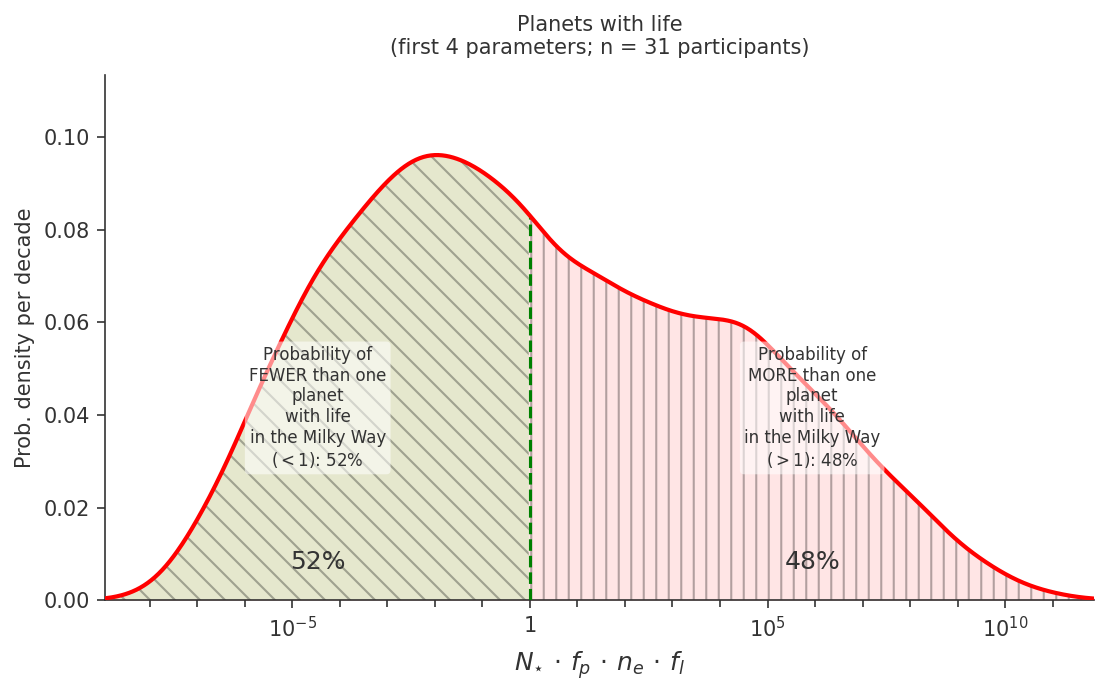
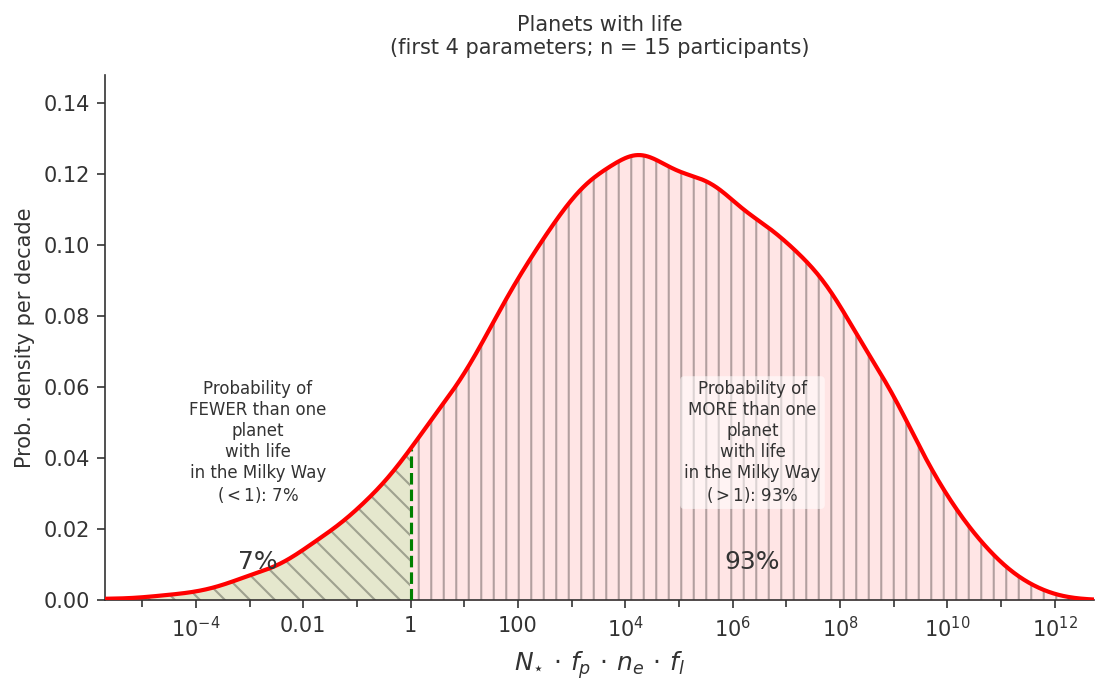
Update figures
Now new figures are generated when data is updated.

diff --git a/analysis/drake_survey_analysis.py b/analysis/drake_survey_analysis.py
@@ -1,12 +1,10 @@
 """
-Drake survey: analysis and figures from the 3 CSVs exported by the backend
+Drake survey: analysis and figures from the CSV exported by the backend
 ==========================================================================
 
-Inputs (downloaded with the admin endpoints):
-    sessions.csv   <- /api/export/sessions.csv
-    answers.csv    <- /api/export/answers.csv
-    context.csv    <- /api/export/context.csv
-    questions.json <- the same file the website uses
+Inputs:
+    data/part-*.csv <- flattened submission exports
+    questions.json  <- the same file the website uses
 
 Method ("A": pooled marginals, then multiply)
 ---------------------------------------------
@@ -105,18 +103,45 @@ def as_bool(series: pd.Series) -> pd.Series:
     return series.astype(str).str.strip().str.lower().isin(["true", "t", "1"])
 
 
-def load_data(data_dir: Path):
-    sessions = pd.read_csv(data_dir / "sessions.csv")
-    answers = pd.read_csv(data_dir / "answers.csv")
-    context = pd.read_csv(data_dir / "context.csv")
+def load_data(data_dir: Path, questions: list[dict]):
+    parts = sorted(data_dir.glob("part-*.csv"))
+    if not parts:
+        raise FileNotFoundError(f"No part-*.csv files found in {data_dir}")
+    submissions = pd.concat((pd.read_csv(part) for part in parts), ignore_index=True)
+    if "id" not in submissions:
+        raise ValueError("Submission CSVs must contain an 'id' column")
 
-    sessions["completed"] = as_bool(sessions["completed"])
-    done = set(sessions.loc[sessions["completed"], "id"])
+    qids = [q["id"] for q in questions]
+    answer_rows = []
+    for qid in qids:
+        required = [f"{qid}_{suffix}" for suffix in ("t_lo", "t_mode", "t_hi", "skipped")]
+        missing = [column for column in required if column not in submissions]
+        if missing:
+            raise ValueError(f"Missing columns for question {qid}: {', '.join(missing)}")
+        rows = submissions[["id", *required]].rename(columns={
+            f"{qid}_t_lo": "t_lo",
+            f"{qid}_t_mode": "t_mode",
+            f"{qid}_t_hi": "t_hi",
+            f"{qid}_skipped": "skipped",
+        })
+        rows["session_id"] = rows.pop("id")
+        rows["question_id"] = qid
+        rows["skipped"] = as_bool(rows["skipped"])
+        for column in ("t_lo", "t_mode", "t_hi"):
+            rows[column] = pd.to_numeric(rows[column], errors="coerce")
+        answer_rows.append(rows[["session_id", "question_id", "t_lo", "t_mode", "t_hi", "skipped"]])
 
-    answers = answers[answers["session_id"].isin(done)].copy()
-    answers["skipped"] = as_bool(answers["skipped"])
-    context = context[context["session_id"].isin(done)].copy()
-    return sessions[sessions["completed"]], answers, context
+    sessions = submissions[["id"]].copy()
+    sessions["completed"] = True
+    context_columns = [
+        "area_grande", "area_especifica",
+        "belief_life_solar", "belief_life_galaxy", "belief_intel_galaxy",
+        "belief_life_universe", "belief_intel_universe",
+    ]
+    context = submissions[["id", *[c for c in context_columns if c in submissions]]].rename(
+        columns={"id": "session_id"}
+    )
+    return sessions, pd.concat(answer_rows, ignore_index=True), context
 
 
 # ── community PDFs (linear opinion pool) ──────────────────────────────────
@@ -580,7 +605,7 @@ def figure_cumulative_overlay(cum: dict, questions: list, out: Path, n_sessions:
 
 def main():
     ap = argparse.ArgumentParser(description=__doc__, formatter_class=argparse.RawDescriptionHelpFormatter)
-    ap.add_argument("--data-dir", default="data", help="folder with sessions.csv, answers.csv, context.csv")
+    ap.add_argument("--data-dir", default="data", help="folder with part-*.csv submission files")
     ap.add_argument("--questions", default="questions.json")
     ap.add_argument("--out-dir", default="figures")
     ap.add_argument("--n-mc", type=int, default=200_000, help="Monte Carlo samples for N")
@@ -594,7 +619,7 @@ def main():
     questions = json.loads(Path(args.questions).read_text(encoding="utf-8"))
 
     print("Loading the data...")
-    sessions, answers, context = load_data(data_dir)
+    sessions, answers, context = load_data(data_dir, questions)
     print(f"  completed sessions: {len(sessions)}")
     if len(sessions) < 10:
         print("  WARNING: very few sessions; treat the curves as anecdotal.")

diff --git a/analysis/drake_survey_by_area.py b/analysis/drake_survey_by_area.py
@@ -8,8 +8,7 @@ repository root:
     python analysis/drake_survey_by_area.py
     python analysis/drake_survey_by_area.py --include-others --save-person-table
 
-Inputs  (same as drake_survey_analysis.py): data/sessions.csv, data/answers.csv,
-        data/context.csv, questions.json
+Inputs  (same as drake_survey_analysis.py): data/part-*.csv, questions.json
 
 THIS IS AN EXPLORATORY ANALYSIS. With ~10-15 people per group only very large
 differences can be detected; report effect sizes with their intervals, and treat
@@ -639,7 +638,7 @@ def main():
     rng = np.random.default_rng(args.seed)
 
     print("Loading the data...")
-    sessions, answers, context = base.load_data(data_dir)
+    sessions, answers, context = base.load_data(data_dir, questions)
     sess_group = {}
     for r in context.itertuples():
         g = group_of(r.area_grande)

diff --git a/README.md b/README.md
@@ -1,7 +1,7 @@
 # Drakelicit online
 
 An open, always-on version of [Drakelicit](https://github.com/ferdesmello/drakelicit): anyone can give a
-probability distribution for each parameter of the Drake equation, see the resulting distribution of N, and compare
+probability distribution for each parameter of the Drake equation, see the resulting distribution of $N$, and compare
 it with other participants. It runs on **GitHub Pages**: no server, no database, no hosting cost.
 
 * Everything the participant sees is computed **in the browser** (`js/drake.js`).
@@ -31,6 +31,22 @@ pip install -r scripts/requirements.txt
 python scripts/make_fake_rows.py --n 2500 --out /tmp/fake.csv
 python scripts/update_data.py --csv /tmp/fake.csv --data-dir /tmp/data-test
 ```
+
+## Survey analysis figures
+
+The analysis in `analysis/drake_survey_analysis.py` produces the following main figures from the public
+submissions in `data/`:
+
+![Drake equation parameter distributions](figures/drake_survey_PDFs.png)
+
+**Parameter distributions and $N$.** The first panels show each Drake parameter as individual participant
+distributions (thin lines) together with the equal-weight pooled distribution (thick line). The final panels
+show the resulting community distribution and cumulative probability for the product ($N$).
+
+![Community distribution of N](figures/drake_survey_N.png)
+
+**Community distribution of N.** This larger view shows the estimated distribution of the number of detectable
+civilizations in the Milky Way, including reference lines for ($N$=1) and ($N=5\times10^{-13}$).
 
 ## Going live
 
